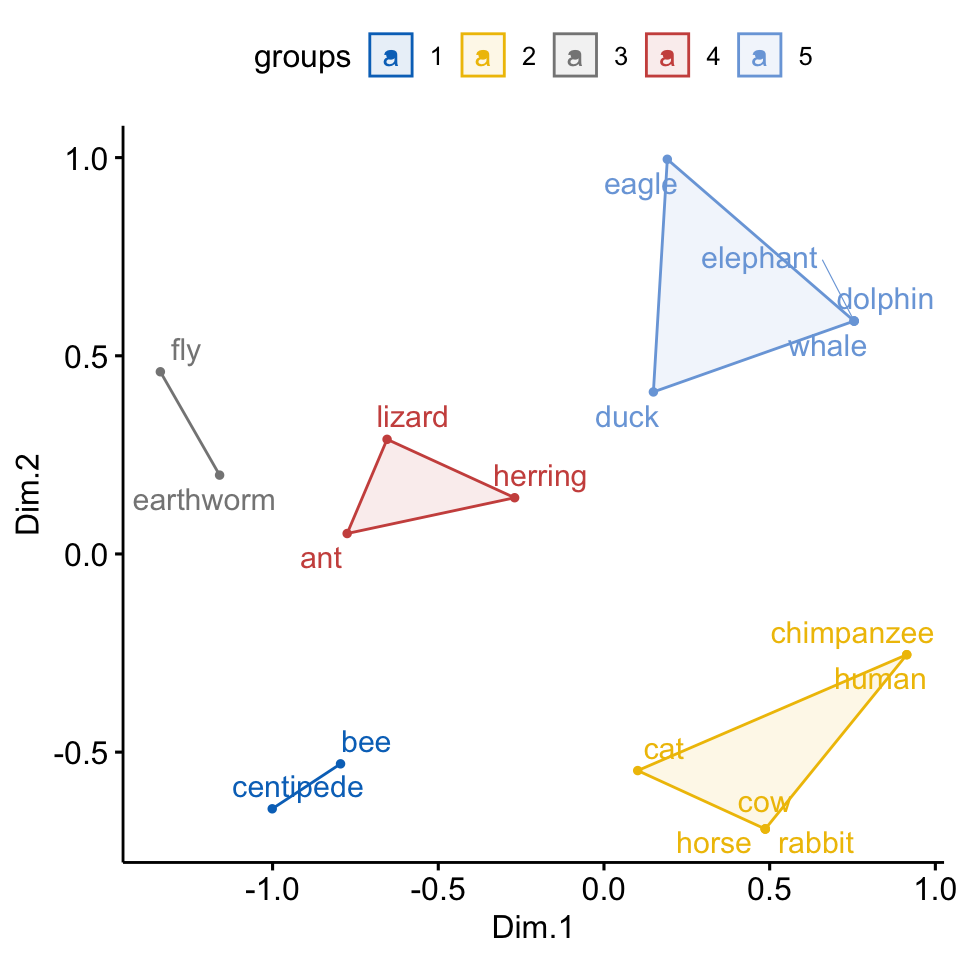
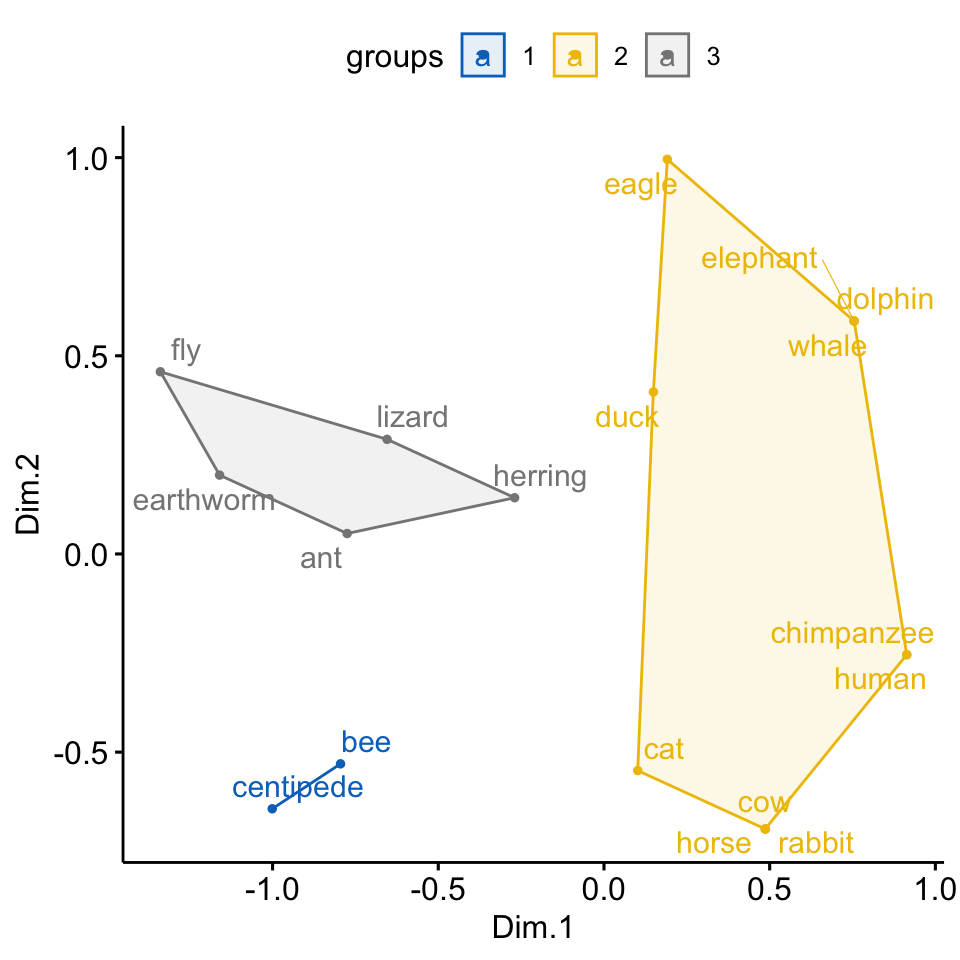
added mds

diff --git a/docs/stat-modeling-pca.html b/docs/stat-modeling-pca.html
@@ -4,7 +4,7 @@
 <meta charset="utf-8">
 <meta name="generator" content="quarto-1.3.353">
 <meta name="viewport" content="width=device-width, initial-scale=1.0, user-scalable=yes">
-<title>Skript Bio Data Science - 54&nbsp; Hauptkomponentenanalyse</title>
+<title>Skript Bio Data Science - 54&nbsp; Multivariate Verfahren</title>
 <style>
 code{white-space: pre-wrap;}
 span.smallcaps{font-variant: small-caps;}
@@ -116,7 +116,7 @@ div.csl-indent {
       <button type="button" class="quarto-btn-toggle btn" data-bs-toggle="collapse" data-bs-target="#quarto-sidebar,#quarto-sidebar-glass" aria-controls="quarto-sidebar" aria-expanded="false" aria-label="Seitenleiste umschalten" onclick="if (window.quartoToggleHeadroom) { window.quartoToggleHeadroom(); }">
         <i class="bi bi-layout-text-sidebar-reverse"></i>
       </button>
-      <nav class="quarto-page-breadcrumbs" aria-label="breadcrumb"><ol class="breadcrumb"><li class="breadcrumb-item"><a href="./stat-modeling-preface.html">Statistisches Modellieren</a></li><li class="breadcrumb-item"><a href="./stat-modeling-pca.html"><span class="chapter-number">54</span>&nbsp; <span class="chapter-title">Hauptkomponentenanalyse</span></a></li></ol></nav>
+      <nav class="quarto-page-breadcrumbs" aria-label="breadcrumb"><ol class="breadcrumb"><li class="breadcrumb-item"><a href="./stat-modeling-preface.html">Statistisches Modellieren</a></li><li class="breadcrumb-item"><a href="./stat-modeling-pca.html"><span class="chapter-number">54</span>&nbsp; <span class="chapter-title">Multivariate Verfahren</span></a></li></ol></nav>
       <a class="flex-grow-1" role="button" data-bs-toggle="collapse" data-bs-target="#quarto-sidebar,#quarto-sidebar-glass" aria-controls="quarto-sidebar" aria-expanded="false" aria-label="Seitenleiste umschalten" onclick="if (window.quartoToggleHeadroom) { window.quartoToggleHeadroom(); }">      
       </a>
       <button type="button" class="btn quarto-search-button" aria-label="Suchen" onclick="window.quartoOpenSearch();">
@@ -528,7 +528,7 @@ div.csl-indent {
           <li class="sidebar-item">
   <div class="sidebar-item-container"> 
   <a href="./stat-modeling-pca.html" class="sidebar-item-text sidebar-link active">
- <span class="menu-text"><span class="chapter-number">54</span>&nbsp; <span class="chapter-title">Hauptkomponentenanalyse</span></span></a>
+ <span class="menu-text"><span class="chapter-number">54</span>&nbsp; <span class="chapter-title">Multivariate Verfahren</span></span></a>
   </div>
 </li>
       </ul>
@@ -680,7 +680,7 @@ div.csl-indent {
     </div>
 <!-- main -->
 <main class="content page-columns page-full" id="quarto-document-content"><header id="title-block-header" class="quarto-title-block default"><div class="quarto-title">
-<h1 class="title"><span id="sec-pca-main" class="quarto-section-identifier"><span class="chapter-number">54</span>&nbsp; <span class="chapter-title">Hauptkomponentenanalyse</span></span></h1>
+<h1 class="title"><span id="sec-pca-main" class="quarto-section-identifier"><span class="chapter-number">54</span>&nbsp; <span class="chapter-title">Multivariate Verfahren</span></span></h1>
 </div>
 
 
@@ -693,12 +693,12 @@ div.csl-indent {
   </div>
   
 
-</header><p><em>Version vom August 02, 2023 um 19:39:55</em></p>
+</header><p><em>Version vom August 03, 2023 um 08:09:12</em></p>
 <div class="quarto-figure quarto-figure-center">
 <figure class="figure"><p><img src="images/caution.png" class="img-fluid figure-img" style="width:50.0%"></p>
 </figure>
 </div>
-<p>Die Hauptkomponentenanalyse (eng. <em>Principle Component Analysis</em>, abk. PCA) ist ein bedeutendes Verfahren zur Dimensionsreduktion. Wir haben also einen sehr großen Datensatz mit sehr vielen Spalten und wollen Muster in den Beobachtungen finden, die durch die Zeilen definiert sind. Dieses Kapitel umfasst dabei aber nur die notwendigen Verfahren und Anwendungen. Das hat vor allem damit zu tun, dass die Hauptkomponentenanalyse in den Sozialwissenschaften sehr weitreichend genutzt wird. Wir machen hier aber Agrarwissenschaften, also ist es eher ein nebensächlicher Fokus. Ebenso ist die Auswertung von Fragebögen allgemein ein Schwerpunkt der Hauptkomponentenanalyse. Auch werden Fragebögen eher selten in meinem Feld ausgewertet, deshalb hier nur das eine Kapitel, wenn man auch sicherlich viel mehr schreiben könnte.</p>
+<p>In diesem Kapitel betrachten wir verschiedene multivariate Verfahren. Im Znetrum steht dabei die Hauptkomponentenanalyse und deren verwandten Algorithmen. Die Hauptkomponentenanalyse (eng. <em>Principle Component Analysis</em>, abk. PCA) ist ein bedeutendes Verfahren zur Dimensionsreduktion. Wir haben also einen sehr großen Datensatz mit sehr vielen Spalten und wollen Muster in den Beobachtungen finden, die durch die Zeilen definiert sind. Dieses Kapitel umfasst dabei aber nur die notwendigen Verfahren und Anwendungen. Das hat vor allem damit zu tun, dass die Hauptkomponentenanalyse in den Sozialwissenschaften sehr weitreichend genutzt wird. Wir machen hier aber Agrarwissenschaften, also ist es eher ein nebensächlicher Fokus. Ebenso ist die Auswertung von Fragebögen allgemein ein Schwerpunkt der Hauptkomponentenanalyse. Auch werden Fragebögen eher selten in meinem Feld ausgewertet, deshalb hier nur das eine Kapitel, wenn man auch sicherlich viel mehr schreiben könnte.</p>
 <p>Das folgende Kapitel basiert zum Teilen auf den <a href="http://www.sthda.com/english/articles/31-principal-component-methods-in-r-practical-guide/">Articles - Principal Component Methods in R: Practical Guide</a>. Diese Sammlung an Tutorien geben einen wunderbaren Überblick über alle möglichen Methoden zu der Hauptkomponentenanalyse und deren verwandten Algorithmen. Wenn dich dazu mehr interessiert kann ich das Buch von <span class="citation" data-cites="kassambara2017practical">Kassambara (<a href="#ref-kassambara2017practical" role="doc-biblioref">2017</a>)</span> dir sehr ans Herz legen. Dort findest du eine tolle Übersicht über die Hauptkomponentenanalyse in R.</p>
 <p>Was ist grob die Idee der Hauptkomponentenanalyse? Wir wollen Geraden durch unsere Datenwolke ziehen und dabei die Varianz minimieren. In der <a href="#fig-cluster-pca-exp-01-1">Abbildung&nbsp;<span>54.1 (a)</span></a> siehst du eine solche Punktewolke. Das klingt jetzt wie die Regression und damit hast du auch recht. Die Hauptkomponentenanalyse und die lineare Regression sind nah miteinander verwandt. Damit wären wir schon beim ersten Punkt, Hauptkomponenten beschreiben einen Anteil der erklärten Varianz durch die entsprechende Hauptkomponente. Dabei erklärt <em>grundsätzlich</em> die 1. Hauptkomponente die meiste Varianz gefolgt von 2. Hauptkomponente und so fort. Die Hauptkomponenten sind somit nach dem Anteil der erklärten Varianz sortiert. Das ist eine grundlegende Eigenschaft der Hauptkomponenten. Darüber hinaus sind auch alle Hauptkomponenten untereinander mit 0 korreliert und somit maximal unkorreliert. Die Hauptkomponenten und damit die Geraden durch die Punktwolke stehen orthogonal oder senkrecht aufeinander. Es gibt so viele Hauptkomponente wie es Variablen in den Daten gibt. Mit Variablen meine ich hier die ungefähr die Spalten eines Datensatzes. Ungefähr, da wir nicht auf allen Spalten eine Hauptkomponenteanalyse rechnen können, aber dazu später mehr.</p>
 <div id="fig-cluster-pca-exp-01" class="cell column-page quarto-layout-panel">
@@ -2184,10 +2184,11 @@ Spezialfall des <span class="math inline">\(\mathcal{X}^2\)</span>-Test
 </div>
 </div>
 </div>
-<p>Na endlich, wir sehen mal eine Gruppe von Beobachtungen oder Ausreißern, die nicht in der Wolke aller Beobachtungen liegen. Beobachtungen mit einem Wert kleiner <span class="math inline">\(-20\)</span> in der 2. Dimension könnten wir dann als Ausreißer entfernen. Der Rest bildet dann eine recht homogene Gruppe. Wir können uns aber auch das <span class="math inline">\(k\)</span>-NN Verfahren aus dem <a href="classification-knn.html"><span>Kapitel&nbsp;62</span></a> nutzen um Cluster in den Daten zu finden. Das heißt wir nutzen das maschinelle Lernverfahren <span class="math inline">\(k-NN\)</span> um uns <span class="math inline">\(k\)</span> Cluster bestimmen zu lassen. Dafür nutzen wir die Funktion <code><a href="https://rdrr.io/r/stats/kmeans.html">kmeans()</a></code> und ziehen uns über die Funktion <code>pluck()</code> die Cluster raus. Daher erhalten wir einen Vektor mit Zahlen, die beschreiben in welchem Cluster die jeweilige <span class="math inline">\(i\)</span>-te Beobachtung ist.</p>
+<p>Zum einen Spalten sich die Tiere sehr gut auf. Wir sehen hier auch, welche Tiere eher nahe beieinander liegen und welche Tiere eher artfremd sind. Manche Tiere sind dann etwas seltsam, wie zum Beispiel der Adler und der Elefant, die nah beieinander liegen. Aber es gibt auf der anderen Seite auch nicht so viele Vögel in den Daten. Beachte immer, alle Beobachtungen werden auch abgebildet. Es gibt kein, passt dann doch nicht.</p>
+<p>Wie schon bei der Hauptkomponentenanalyse können wir uns auch das <span class="math inline">\(k\)</span>-NN Verfahren aus dem <a href="classification-knn.html"><span>Kapitel&nbsp;62</span></a> nutzen um Cluster in den Daten zu finden. Das heißt wir nutzen das maschinelle Lernverfahren <span class="math inline">\(k-NN\)</span> um uns <span class="math inline">\(k\)</span> Cluster bestimmen zu lassen. Dafür nutzen wir die Funktion <code><a href="https://rdrr.io/r/stats/kmeans.html">kmeans()</a></code> und ziehen uns über die Funktion <code>pluck()</code> die Cluster raus. Daher erhalten wir einen Vektor mit Zahlen, die beschreiben in welchem Cluster die jeweilige <span class="math inline">\(i\)</span>-te Beobachtung ist.</p>
 <div class="cell">
 <div class="sourceCode" id="cb63"><pre class="downlit sourceCode r code-with-copy"><code class="sourceCode R"><span><span class="co"># K-means clustering</span></span>
-<span><span class="va">clust</span> <span class="op">&lt;-</span> <span class="fu"><a href="https://rdrr.io/r/stats/kmeans.html">kmeans</a></span><span class="op">(</span><span class="va">mds</span>, centers <span class="op">=</span> <span class="fl">5</span><span class="op">)</span> <span class="op">%&gt;%</span></span>
+<span><span class="va">clust</span> <span class="op">&lt;-</span> <span class="fu"><a href="https://rdrr.io/r/stats/kmeans.html">kmeans</a></span><span class="op">(</span><span class="va">mds</span>, centers <span class="op">=</span> <span class="fl">3</span><span class="op">)</span> <span class="op">%&gt;%</span></span>
 <span>  <span class="fu">pluck</span><span class="op">(</span><span class="st">"cluster"</span><span class="op">)</span> <span class="op">%&gt;%</span> </span>
 <span>  <span class="fu"><a href="https://rdrr.io/r/base/factor.html">as.factor</a></span><span class="op">(</span><span class="op">)</span></span></code><button title="In die Zwischenablage kopieren" class="code-copy-button"><i class="bi"></i></button></pre></div>
 </div>
@@ -2196,7 +2197,7 @@ Spezialfall des <span class="math inline">\(\mathcal{X}^2\)</span>-Test
 <div class="sourceCode" id="cb64"><pre class="downlit sourceCode r code-with-copy"><code class="sourceCode R"><span><span class="va">mds</span> <span class="op">&lt;-</span> <span class="va">mds</span> <span class="op">%&gt;%</span></span>
 <span>  <span class="fu">mutate</span><span class="op">(</span>groups <span class="op">=</span> <span class="va">clust</span><span class="op">)</span></span></code><button title="In die Zwischenablage kopieren" class="code-copy-button"><i class="bi"></i></button></pre></div>
 </div>
-<p>Nun sehen in <a href="#fig-mds-3">Abbildung&nbsp;<span>54.18</span></a> die gleiche Abbildung wie oben nur ergänzt um die farbliche Hinterlegung der <span class="math inline">\(k=5\)</span> Clustern aus dem <span class="math inline">\(k\)</span>-NN Algorithmus. Wir können jetzt die Ausreißer numerisch feststellen und dann aus den Daten entfernen, wenn wir dies wollen würden. Entweder machen wir das über die Clusterzuordnung vom gelben Cluster 2 über die Funktion <code><a href="https://rdrr.io/r/stats/filter.html">filter()</a></code> oder aber wir suchen uns die Beobachtungen und damit Zeilen raus, die wir nicht mehr in den Daten wollen. Die Nummern stehen ja dabei.</p>
+<p>Nun sehen in <a href="#fig-mds-3">Abbildung&nbsp;<span>54.18</span></a> die gleiche Abbildung wie oben nur ergänzt um die farbliche Hinterlegung der <span class="math inline">\(k=3\)</span> Clustern aus dem <span class="math inline">\(k\)</span>-NN Algorithmus. Hier hängt es wieder stark von der Anzahl an Clustern ab. Wenn du mal spielst, wirst du sehen, dass bei vier Clustern dann auch der gelbe Großcluster aufgebrochen wird. Es sind eben dann doch recht wenig Tiere von jeder Art um hier eine saubere Zuordnung zu kriegen.</p>
 <div class="cell" data-layout-align="center">
 <div class="sourceCode" id="cb65"><pre class="downlit sourceCode r code-with-copy"><code class="sourceCode R"><span><span class="fu">ggscatter</span><span class="op">(</span><span class="va">mds</span>, x <span class="op">=</span> <span class="st">"Dim.1"</span>, y <span class="op">=</span> <span class="st">"Dim.2"</span>, </span>
 <span>          label <span class="op">=</span> <span class="fu"><a href="https://rdrr.io/r/base/colnames.html">rownames</a></span><span class="op">(</span><span class="va">animals_df</span><span class="op">)</span>,</span>
@@ -2209,7 +2210,7 @@ Spezialfall des <span class="math inline">\(\mathcal{X}^2\)</span>-Test
 <div class="cell-output-display">
 <div id="fig-mds-3" class="quarto-figure quarto-figure-center anchored">
 <figure class="figure"><p><img src="stat-modeling-pca_files/figure-html/fig-mds-3-1.png" class="img-fluid figure-img" width="480"></p>
-<figcaption class="figure-caption">Abbildung&nbsp;54.18— Scatterplot der zwei Dimensionen nach dem <em>Multidimensional Scaling</em> für den Gummibärchendatensatz mit den <span class="math inline">\(k=5\)</span> Clustern aus dem <span class="math inline">\(k\)</span>-NN Algorithmus.</figcaption></figure>
+<figcaption class="figure-caption">Abbildung&nbsp;54.18— Scatterplot der zwei Dimensionen nach dem <em>Multidimensional Scaling</em> für den Tierdatensatz mit den <span class="math inline">\(k=3\)</span> Clustern aus dem <span class="math inline">\(k\)</span>-NN Algorithmus.</figcaption></figure>
 </div>
 </div>
 </div>
